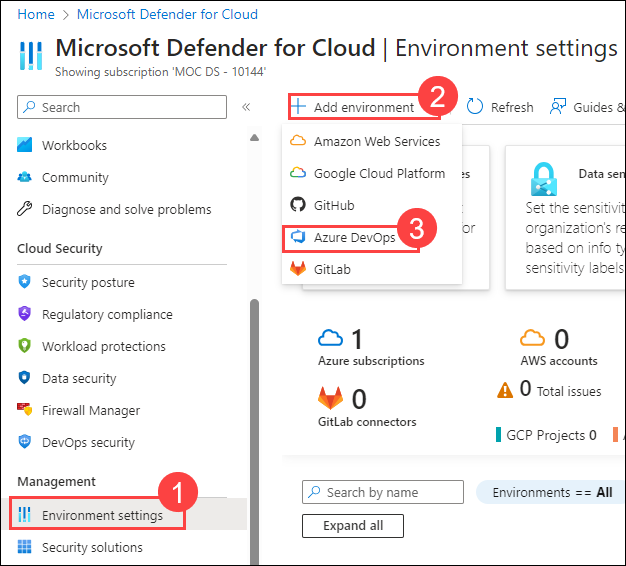
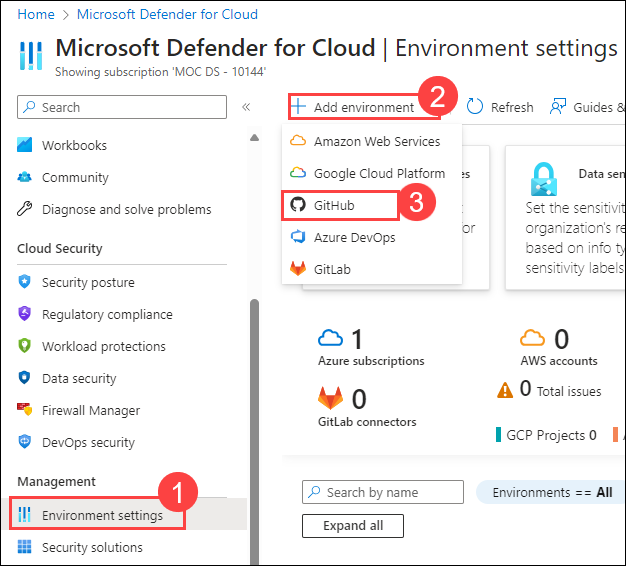
Updated

Changed region(s): [[0.4249, 0.3004, 0.6981, 0.4505]]

diff --git a/Instructions/Labs/Module 5 - Defender for DevOps .md b/Instructions/Labs/Module 5 - Defender for DevOps .md
@@ -402,15 +402,23 @@ Integrate Microsoft Security DevOps into your Azure DevOps pipeline to scan Infr
 
 1. Click on your profile picture in the top right corner.
 
-1. Select **"Settings"** from the dropdown menu.
+1. Select **Settings** from the dropdown menu.
 
-1. Scroll down in the left sidebar and click on **"Developer settings."**
+   ![](images/lab5-26.png)
 
-1. **Select Personal Access Tokens:**
-   - In the Developer settings, click on **"Personal access tokens."**
-   - You may see two options: **"Tokens (classic)"** and **"Fine-grained tokens."** Click on **"Tokens (classic)"**.
+1. Scroll down in the left sidebar and click on **Developer settings.**
 
-1. Click on the **"Generate new token"** button.
+   ![](images/lab5-25.png)
+
+1. In the Developer settings, click on **Personal access tokens.**
+
+1. You may see two options: **Tokens (classic)** and **Fine-grained tokens** Click on **"Tokens (classic)"**.
+
+   ![](images/lab5-24.png)
+
+1. Click on the **Generate new token** button and select **Generate new token (Classic)**.
+
+   ![](images/lab5-23.png)
 
 1. **Configure Token Settings:**
    - **Token name**: Enter **mypattoken**
@@ -418,7 +426,7 @@ Integrate Microsoft Security DevOps into your Azure DevOps pipeline to scan Infr
    - **Select Scopes**: Choose the scopes (permissions) for your token:
      - select `repo`, `write:packages`, `admin:org`
 
-1. Once you've configured everything, click on the **"Generate token"** button at the bottom of the page.
+1. Once you've configured everything, click on the **Generate token** button at the bottom of the page.
 
 1. After generating, your new token will be displayed. **Copy it immediately** to the notepad as you won't be able to see it again. Store it in a secure place (e.g., password manager).
 
@@ -900,7 +908,7 @@ To ensure Azure DevOps Advanced Security is enabled in your organization, you ca
 
    ![alert_detected](images/123.png)
 
-1. Navigate back to **Environment settings** under Management > **+Add environment** > **Azure DevOps**
+1. Navigate back to **Environment settings** under Management > **+Add environment** > **Github**
 
    ![alert_detected](images/advlab51.png)
 
@@ -1312,6 +1320,14 @@ To showcase the DevOps security posture provided by CSPM, you can create a lab o
    ![alert_detected](images/147.png)
 
  >**Note**: It may take up to 24 hours to receive all the recommendations.
+
+#### **Remove the Azure DevOps billing**
+
+1. On the lab computer, switch to the browser window displaying Azure DevOps organization homepage and select **Organization Settings** at bottom left corner.
+
+2. Under **Organization Settings** select **Billing** and click on **Change billing** button to open Change billing pane.
+
+3. In the **Change billing** pane, select **Remove billing** setting and click on Save.
 
 ## **Summary**  
 In this module, you explored various aspects of securing CI/CD pipelines in Azure DevOps. You began by understanding the role of CI/CD pipelines and identifying potential security vulnerabilities within them. Using Defender for DevOps, you pinpointed and assessed security issues, learning how they could impact your pipeline. You also reviewed GitHub Advanced Security (GHAS) and Defender for DevOps, gaining insight into their features and pricing. Integration tasks included securing your pipeline with GHAS and Defender for DevOps, and connecting Azure DevOps to Microsoft Defender for Cloud (MDC) Finally, you examined the role of Defender Cloud Security Posture Management (DCSPM) in enhancing your cloud security posture. This module provided a comprehensive approach to securing DevOps environments and pipelines, integrating various security tools to improve overall security and management.
